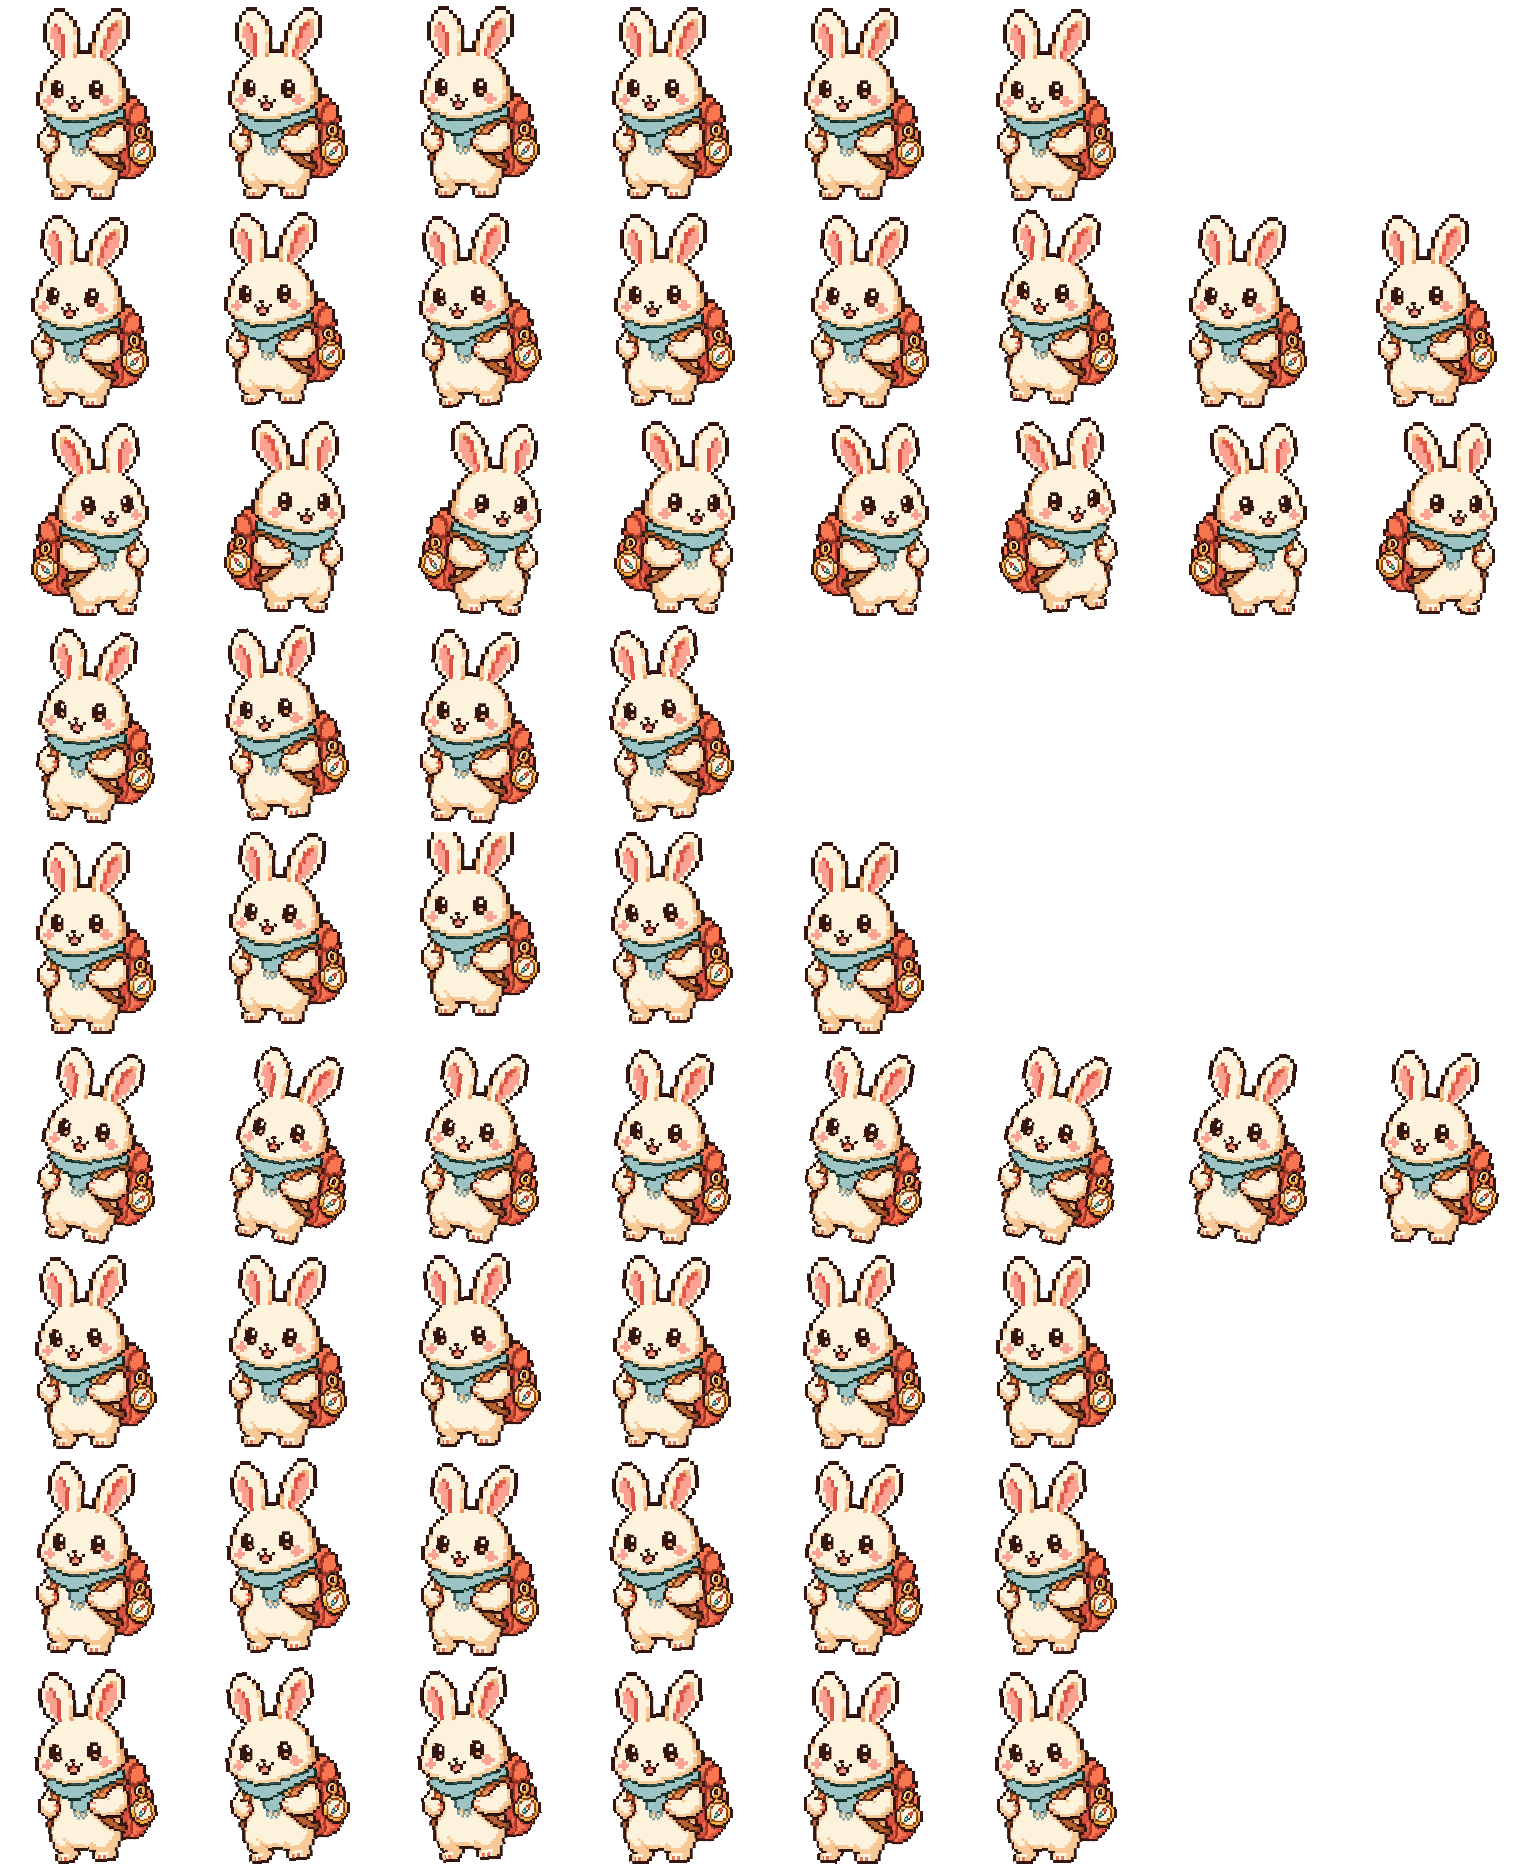
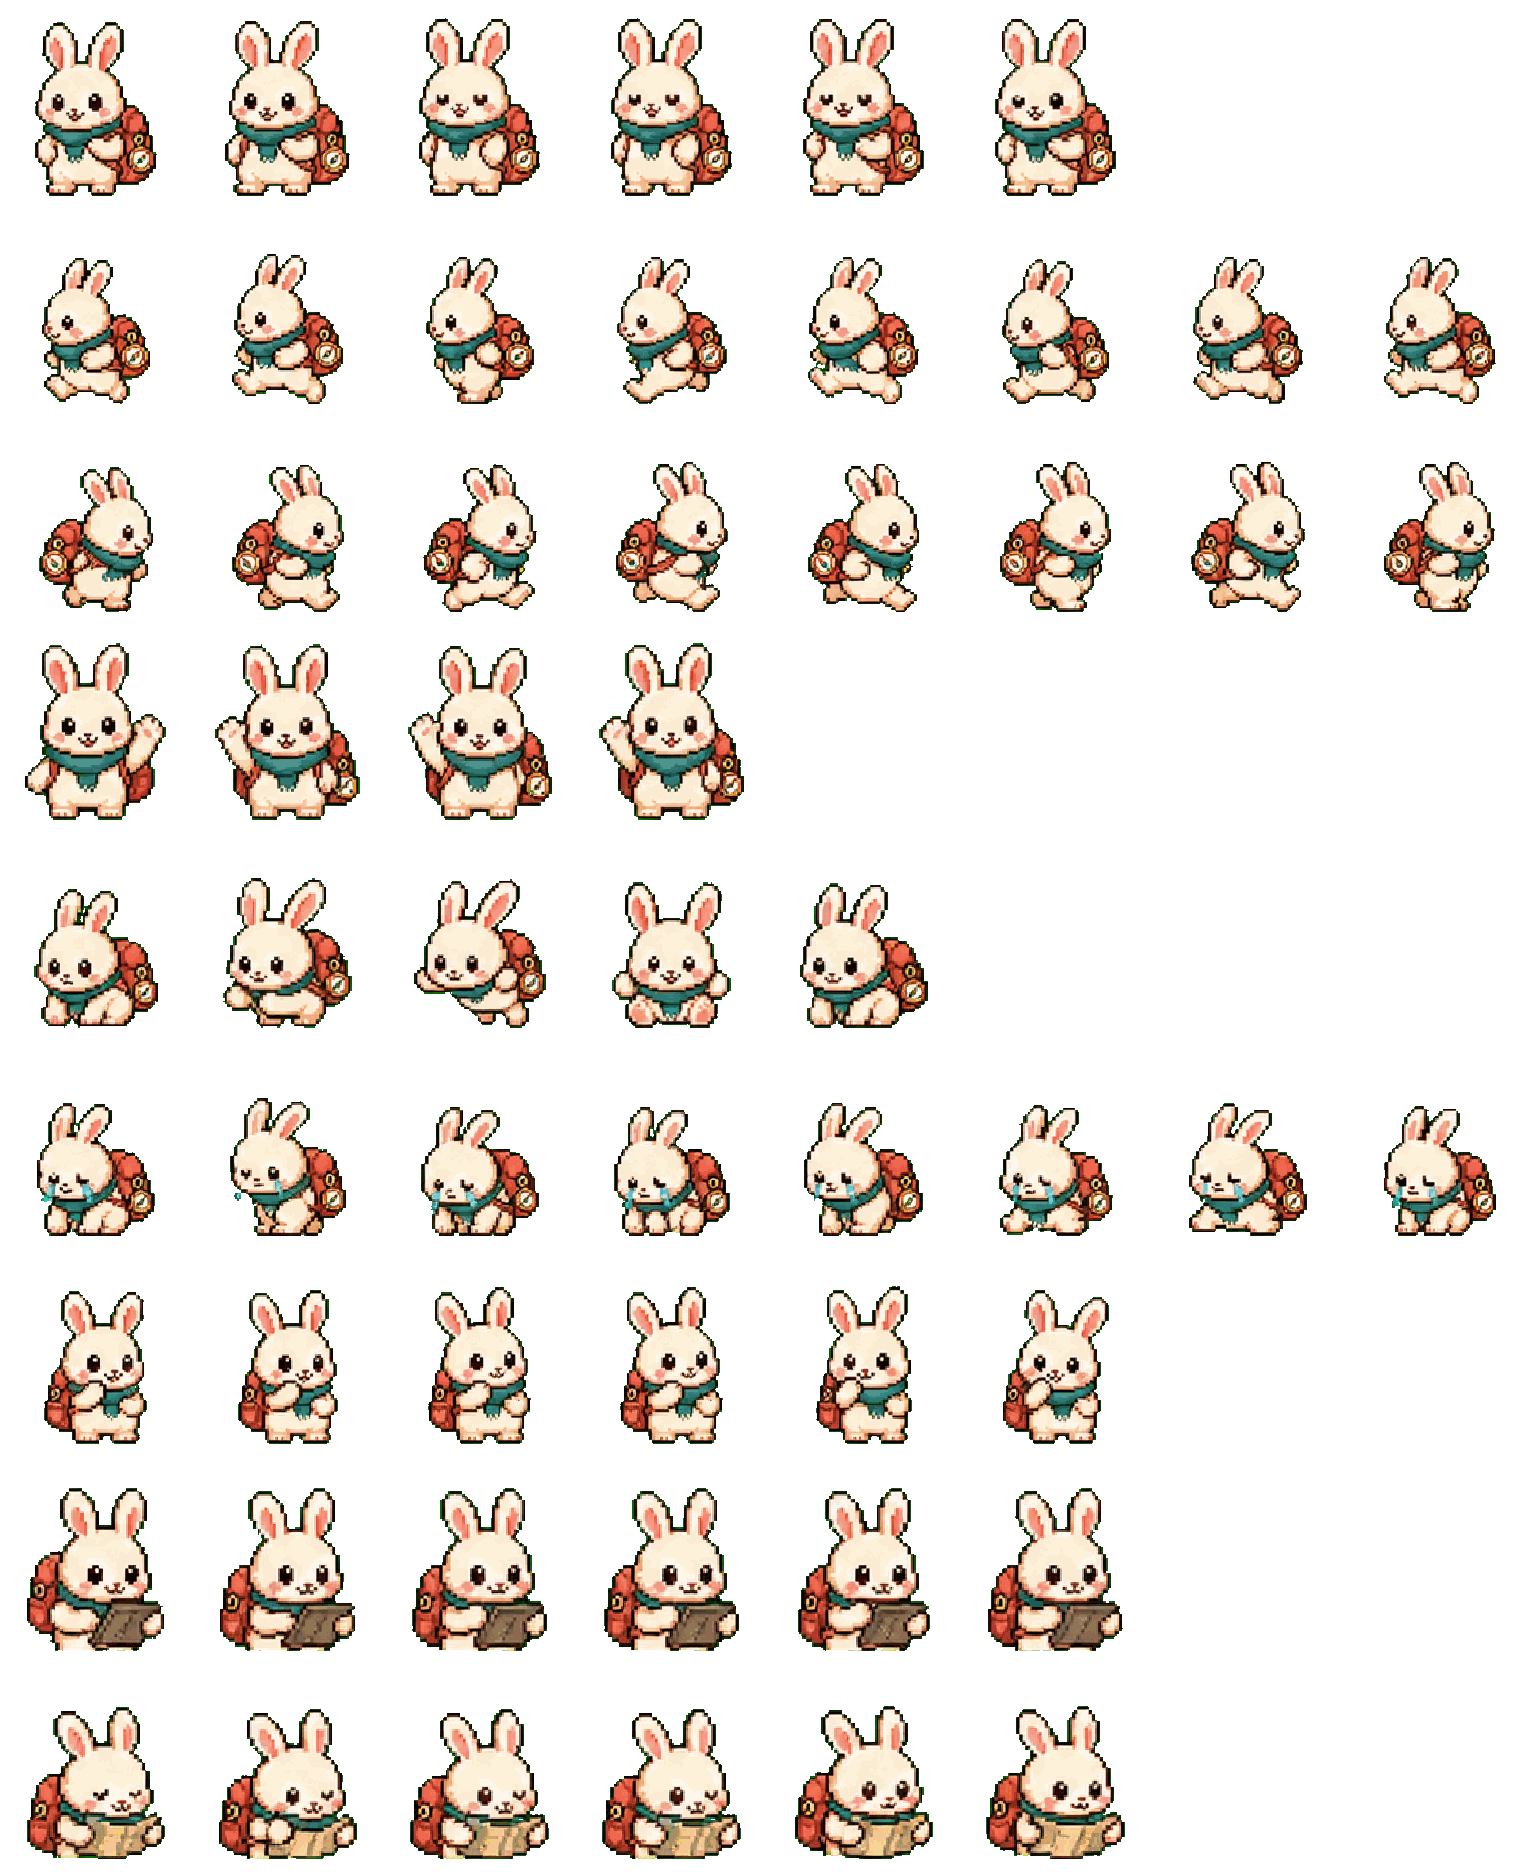
Upgrade AI companion pet experience

Changed region(s): [[0.0, 0.0, 1.0, 1.0]]

diff --git a/src/components/trip/TripAiRecommendationPanel.jsx b/src/components/trip/TripAiRecommendationPanel.jsx
@@ -2,6 +2,8 @@ import React, { useMemo, useState } from 'react';
 import {
   CalendarPlus,
   CheckCircle2,
+  Compass,
+  EyeOff,
   Lightbulb,
   MapPin,
   Sparkles,
@@ -14,20 +16,6 @@ const modeOptions = [
   { id: 'placeIdeas', label: '想去推薦', icon: Lightbulb },
   { id: 'dayPlan', label: '今日行程', icon: CalendarPlus }
 ];
-
-const petMoodClasses = {
-  error: 'ring-rose-300 bg-rose-50/85 dark:ring-rose-700 dark:bg-rose-950/45',
-  happy: 'ring-emerald-300 bg-emerald-50/85 dark:ring-emerald-700 dark:bg-emerald-950/40',
-  idle: 'ring-sky-300 bg-sky-50/85 dark:ring-brand-700 dark:bg-brand-950/40',
-  thinking: 'ring-amber-300 bg-amber-50/85 dark:ring-amber-700 dark:bg-amber-950/40'
-};
-
-const petMoodDotClasses = {
-  error: 'bg-rose-500',
-  happy: 'bg-emerald-500',
-  idle: 'bg-brand-500',
-  thinking: 'bg-amber-500'
-};
 
 const PET_CELL_WIDTH = 192;
 const PET_CELL_HEIGHT = 208;
@@ -56,8 +44,6 @@ const petMoodAnimation = {
 const AiTravelPet = ({ mood = 'idle', size = 'md' }) => {
   const isButton = size === 'button';
   const wrapperSize = isButton ? 'h-16 w-16' : 'h-20 w-20';
-  const moodClass = petMoodClasses[mood] || petMoodClasses.idle;
-  const dotClass = petMoodDotClasses[mood] || petMoodDotClasses.idle;
   const animation = petAnimationStates[petMoodAnimation[mood] || 'idle'];
   const spriteWidth = isButton ? 58 : 74;
   const spriteScale = spriteWidth / PET_CELL_WIDTH;
@@ -80,14 +66,10 @@ const AiTravelPet = ({ mood = 'idle', size = 'md' }) => {
 
   return (
     <div
-      className={`relative flex shrink-0 items-center justify-center overflow-hidden rounded-2xl ring-2 shadow-sm ${wrapperSize} ${moodClass}`}
+      className={`relative flex shrink-0 items-center justify-center overflow-visible ${wrapperSize}`}
       aria-hidden="true"
     >
-      <span className={`absolute right-1.5 top-1.5 h-2.5 w-2.5 rounded-full ${dotClass} shadow-sm`} />
       <span className="tp-ai-pet-sprite block select-none" style={spriteStyle} />
-      {mood === 'happy' && (
-        <Sparkles size={13} className="absolute -right-1 top-0 text-emerald-500 dark:text-emerald-300" />
-      )}
     </div>
   );
 };
@@ -197,8 +179,11 @@ const TripAiRecommendationPanel = ({
   error,
   canEdit,
   isHidden = false,
+  isCompanionHidden = false,
   onOpen,
   onClose,
+  onHideCompanion,
+  onSummon,
   onModeChange,
   onGenerate,
   onApplyPlace,
@@ -226,6 +211,22 @@ const TripAiRecommendationPanel = ({
   };
 
   if (isHidden) return null;
+
+  if (isCompanionHidden) {
+    return (
+      <div className="fixed bottom-[calc(var(--footer-nav-height)+0.75rem)] left-3 z-50 sm:left-auto sm:right-5 lg:bottom-28">
+        <button
+          type="button"
+          onClick={() => onSummon?.(mode)}
+          className="touch-target tp-press-feedback inline-flex h-10 w-10 items-center justify-center rounded-full text-brand-700 transition hover:bg-sky-50/70 hover:text-brand-900 active:scale-95 focus-visible:outline focus-visible:outline-2 focus-visible:outline-offset-2 focus-visible:outline-brand-500 dark:text-brand-200 dark:hover:bg-slate-800/60 dark:hover:text-white"
+          aria-label="召喚 AI 旅伴"
+          title="召喚 AI 旅伴"
+        >
+          <Compass size={20} />
+        </button>
+      </div>
+    );
+  }
 
   return (
     <div className="fixed bottom-[calc(var(--footer-nav-height)+0.75rem)] left-3 z-50 sm:left-auto sm:right-5 lg:bottom-28">
@@ -255,15 +256,26 @@ const TripAiRecommendationPanel = ({
                 </h3>
               </div>
             </div>
-            <button
+            <div className="flex shrink-0 items-center gap-1">
+              <button
+              type="button"
+              onClick={onHideCompanion}
+              className="touch-target inline-flex h-10 w-10 shrink-0 items-center justify-center rounded-lg text-slate-500 transition hover:bg-slate-100 hover:text-slate-900 focus-visible:outline focus-visible:outline-2 focus-visible:outline-offset-2 focus-visible:outline-brand-500 dark:text-slate-300 dark:hover:bg-slate-800 dark:hover:text-white"
+              aria-label="隱藏 AI 旅伴"
+              title="隱藏旅伴"
+            >
+                <EyeOff size={17} />
+              </button>
+              <button
               type="button"
               onClick={onClose}
               className="touch-target inline-flex h-10 w-10 shrink-0 items-center justify-center rounded-lg text-slate-500 transition hover:bg-slate-100 hover:text-slate-900 dark:text-slate-300 dark:hover:bg-slate-800 dark:hover:text-white"
               aria-label="關閉 AI 旅伴"
               title="關閉"
             >
-              <X size={18} />
-            </button>
+                <X size={18} />
+              </button>
+            </div>
           </div>
 
           <p className="mt-3 text-sm font-semibold leading-relaxed text-slate-600 dark:text-slate-300">

diff --git a/src/hooks/useTripAiRecommendations.js b/src/hooks/useTripAiRecommendations.js
@@ -1,9 +1,34 @@
 import { useCallback, useState } from 'react';
 import { requestTripRecommendations } from '../services/tripAiService';
 
+const COMPANION_HIDDEN_STORAGE_KEY = 'tripPlanner.aiCompanionHidden';
 const validModes = new Set(['placeIdeas', 'dayPlan']);
 
 const normalizeMode = (mode) => (validModes.has(mode) ? mode : 'placeIdeas');
+
+const readCompanionHidden = () => {
+  if (typeof window === 'undefined') return false;
+
+  try {
+    return window.localStorage.getItem(COMPANION_HIDDEN_STORAGE_KEY) === '1';
+  } catch {
+    return false;
+  }
+};
+
+const persistCompanionHidden = (hidden) => {
+  if (typeof window === 'undefined') return;
+
+  try {
+    if (hidden) {
+      window.localStorage.setItem(COMPANION_HIDDEN_STORAGE_KEY, '1');
+    } else {
+      window.localStorage.removeItem(COMPANION_HIDDEN_STORAGE_KEY);
+    }
+  } catch {
+    // Local storage is a nice-to-have preference; the companion still works without it.
+  }
+};
 
 export const useTripAiRecommendations = ({
   tripId,
@@ -16,15 +41,31 @@ export const useTripAiRecommendations = ({
   const [response, setResponse] = useState(null);
   const [isLoading, setIsLoading] = useState(false);
   const [error, setError] = useState('');
+  const [isCompanionHidden, setIsCompanionHidden] = useState(readCompanionHidden);
 
   const openPanel = useCallback((nextMode = mode) => {
     setMode(normalizeMode(nextMode));
+    setIsCompanionHidden(false);
+    persistCompanionHidden(false);
     setIsOpen(true);
   }, [mode]);
 
   const closePanel = useCallback(() => {
     setIsOpen(false);
   }, []);
+
+  const hideCompanion = useCallback(() => {
+    setIsCompanionHidden(true);
+    persistCompanionHidden(true);
+    setIsOpen(false);
+  }, []);
+
+  const summonCompanion = useCallback((nextMode = mode) => {
+    setMode(normalizeMode(nextMode));
+    setIsCompanionHidden(false);
+    persistCompanionHidden(false);
+    setIsOpen(true);
+  }, [mode]);
 
   const generate = useCallback(async (nextMode = mode) => {
     const safeMode = normalizeMode(nextMode);
@@ -64,9 +105,12 @@ export const useTripAiRecommendations = ({
     response,
     isLoading,
     error,
+    isCompanionHidden,
     setMode: (nextMode) => setMode(normalizeMode(nextMode)),
     openPanel,
     closePanel,
+    hideCompanion,
+    summonCompanion,
     generate
   };
 };

diff --git a/src/pages/TripDetailPage.jsx b/src/pages/TripDetailPage.jsx
@@ -1805,8 +1805,11 @@ const TripDetailPage = () => {
         error={tripAi.error}
         canEdit={canEdit}
         isHidden={isAnyModalOpen}
+        isCompanionHidden={tripAi.isCompanionHidden}
         onOpen={tripAi.openPanel}
         onClose={tripAi.closePanel}
+        onHideCompanion={tripAi.hideCompanion}
+        onSummon={tripAi.summonCompanion}
         onModeChange={tripAi.setMode}
         onGenerate={tripAi.generate}
         onApplyPlace={handleApplyAiPlaceRecommendation}
